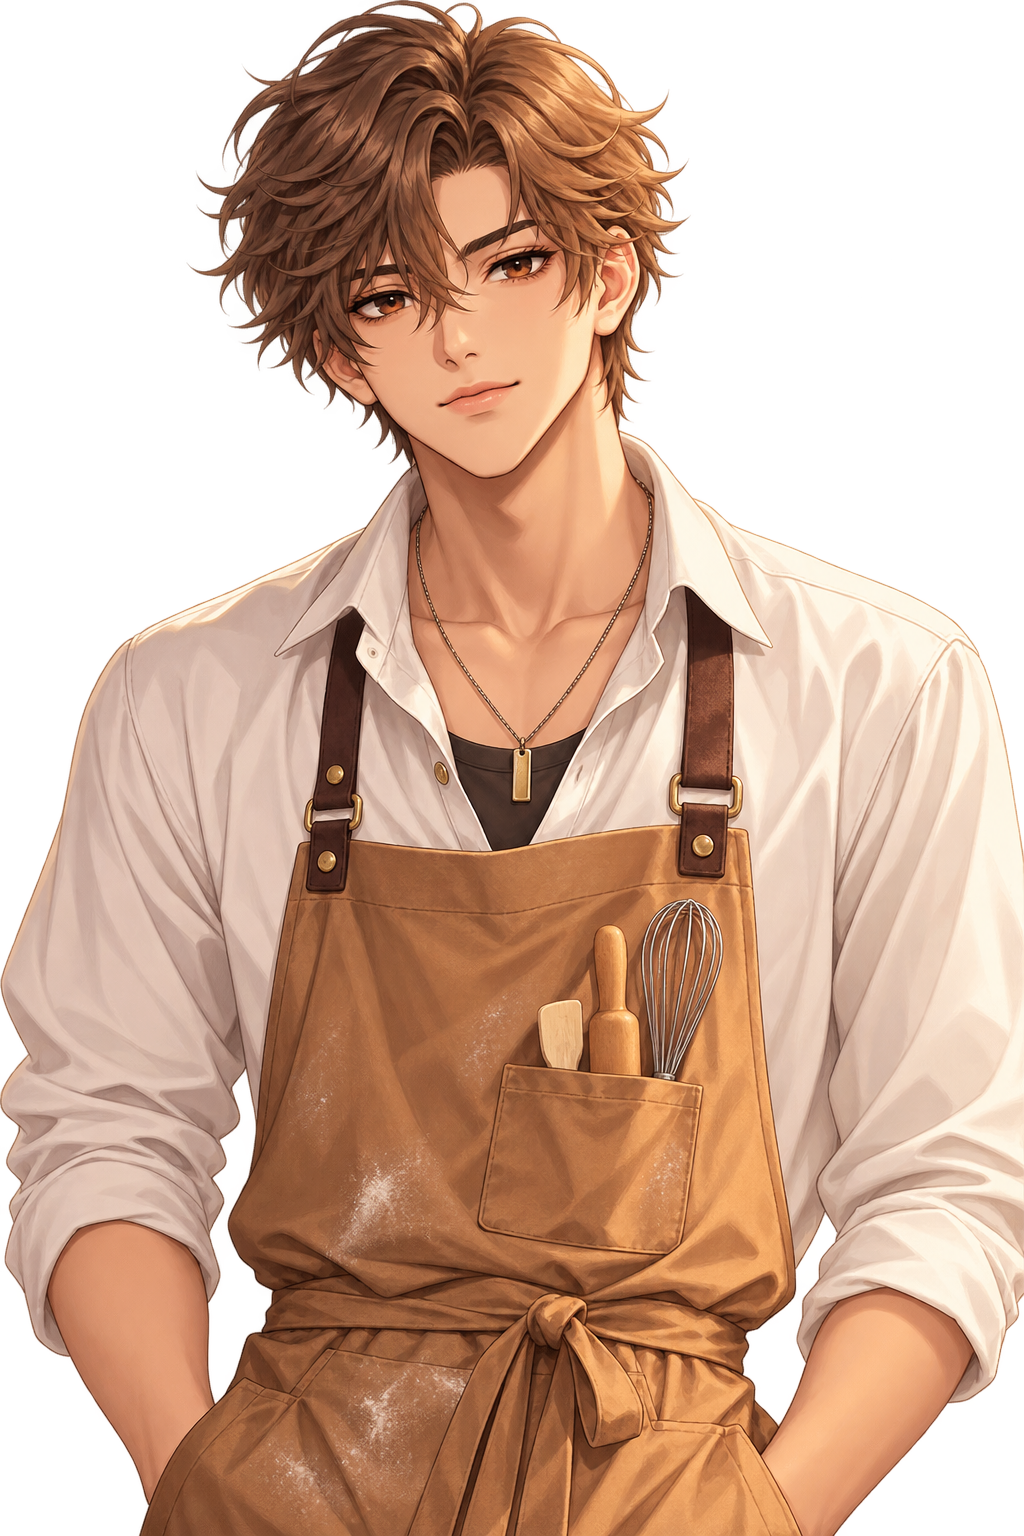
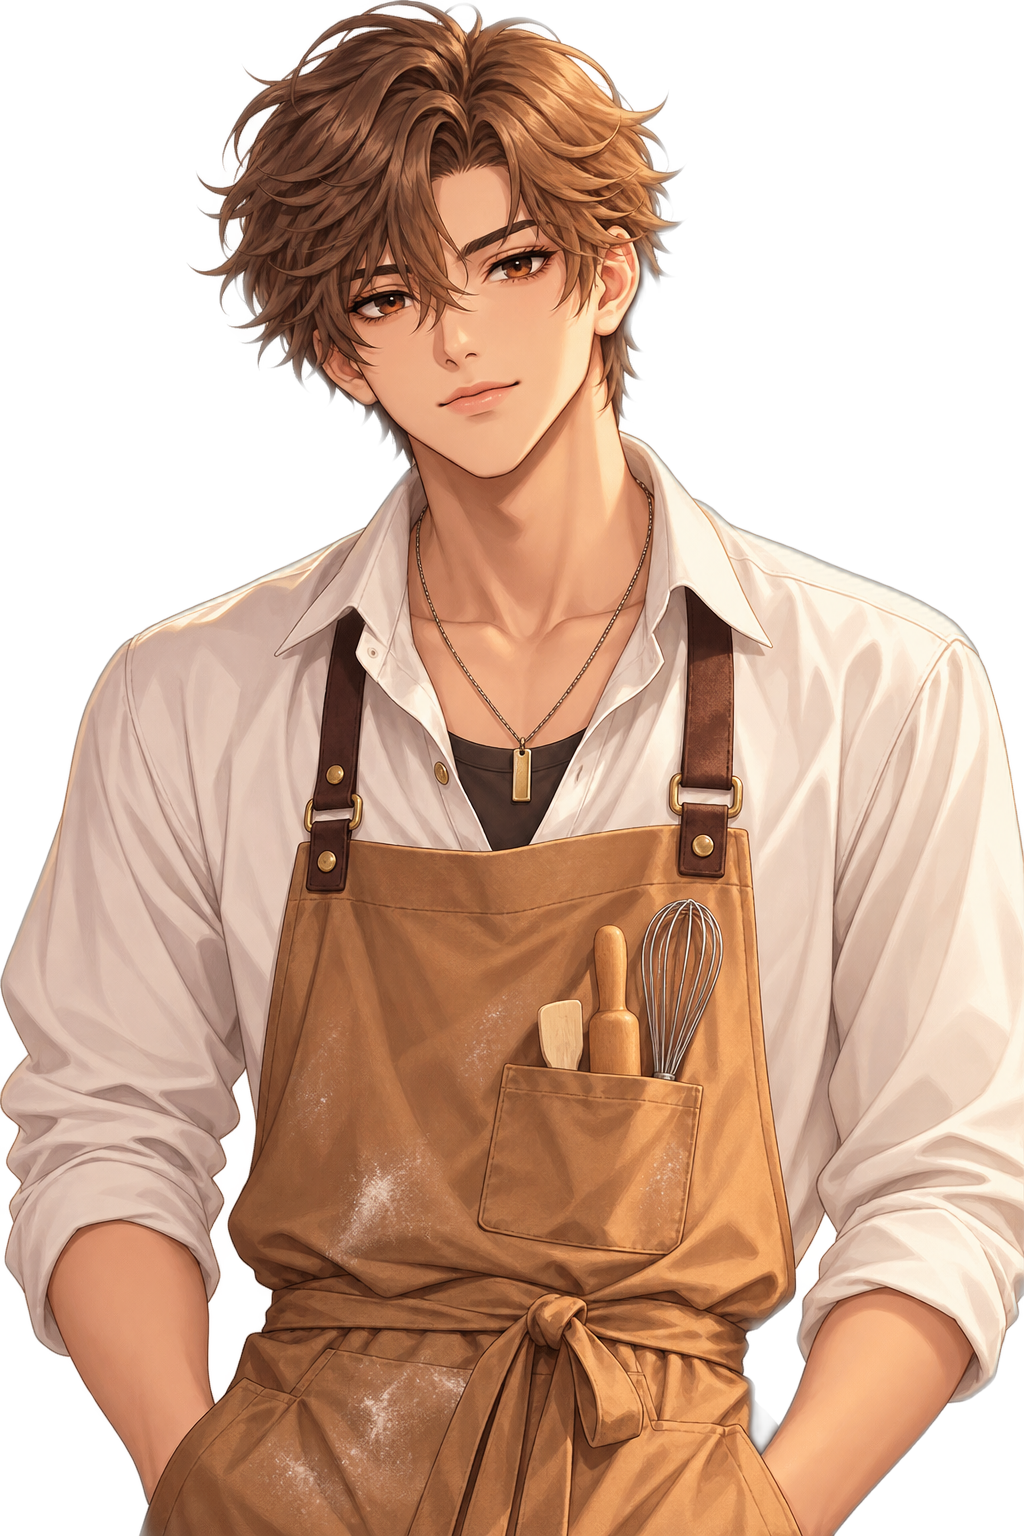
Remove backgrounds from all 13 character portraits (transparent PNG)

diff --git a/docs/QUIETBIND-STATE.md b/docs/QUIETBIND-STATE.md
@@ -1,5 +1,5 @@
 # QUIETBIND — Platform State
-**Last updated:** 2026-08-16 (real character art: Kai, Ren, Priya) · **Repo:** https://github.com/Aryomeh/quietbind (public)
+**Last updated:** 2026-08-16 (character art backgrounds removed) · **Repo:** https://github.com/Aryomeh/quietbind (public)
 **Owner:** Ayobami (GitHub: `doxxedghostman` / `Aryomeh`) · Publishing entity: D&D Interiors and Construction Ltd (RC 9006178)
 
 > This file is the canonical, current-state summary of the Quietbind project.
@@ -218,8 +218,11 @@ Ch. 1–11).
    one is generated), Ren (blushing, neutral, happy, annoyed, sad), Priya
    (neutral, happy) — 13 files total. This fully covers Ch. 1–3 (written)
    plus the emotion range expected through Ch. 11 per the story outline.
-   Not yet needed: Thorne/Elias art (no dialogue until Ch. 13+), or wider
-   emotion coverage for Kai/Ren's later route-lock chapters (Ch. 12+).
+   All 13 have transparent (alpha-channel) backgrounds via `rembg` —
+   the first upload batch had opaque white/gradient backgrounds, caught
+   live in Ch. 2 (visible white box behind Kai's portrait), fixed same
+   day. Not yet needed: Thorne/Elias art (no dialogue until Ch. 13+), or
+   wider emotion coverage for Kai/Ren's later route-lock chapters (Ch. 12+).
 9. ⬜ Audio/music system — not started. Planned: `music`/`sfx` fields on
    the chapter schema, an `AudioManager` under `lib/audio/`, asset
    convention `public/assets/stories/<slug>/audio/{bgm,sfx}/`, same
